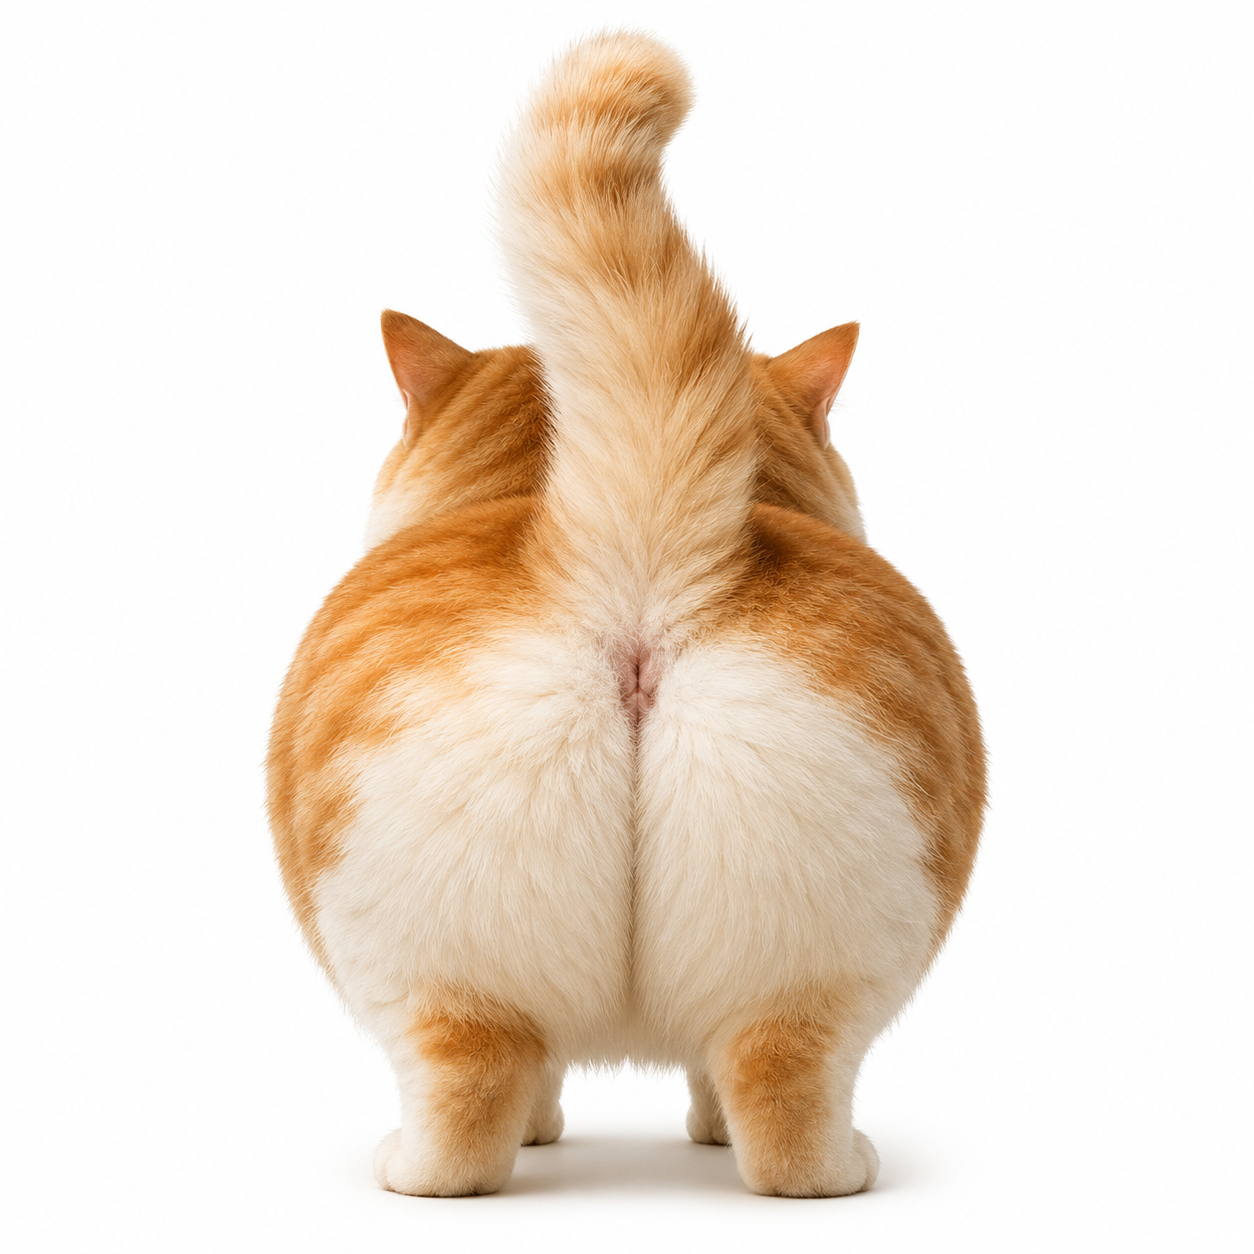
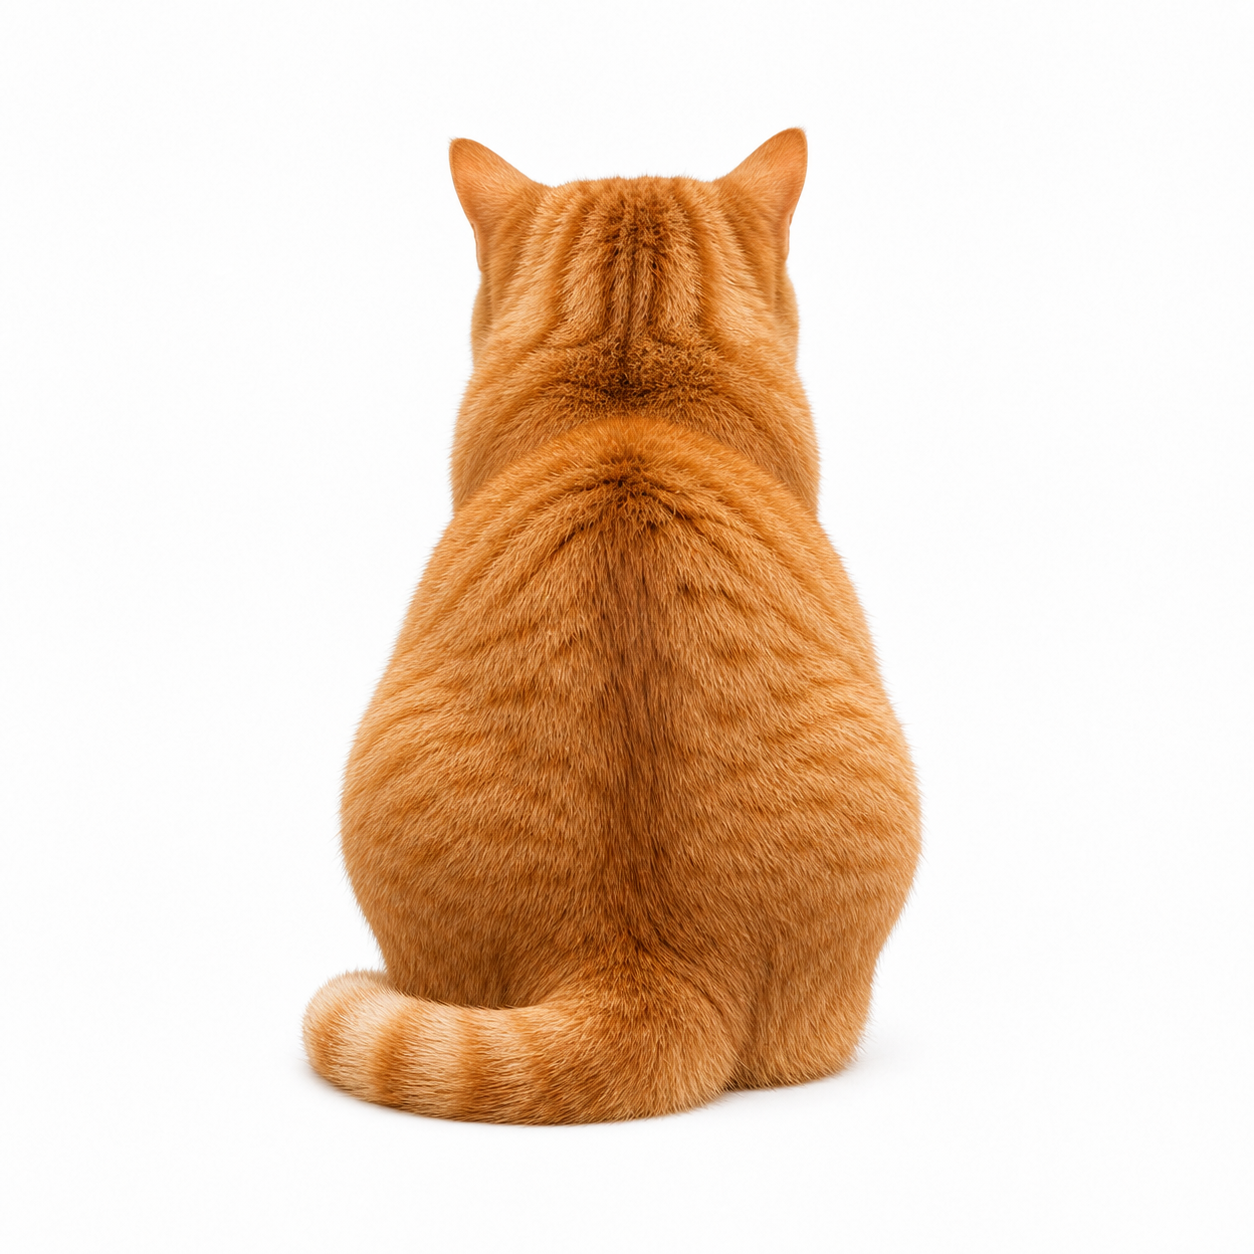
Add rounder animal set

diff --git a/site/app.js b/site/app.js
@@ -21,18 +21,15 @@ const animals = [
     image: "/assets/animals/corgi/base.png",
     alt: "Corgi from behind",
     hitZones: [
-      { x: 0.4, y: 0.62, rx: 0.145, ry: 0.13 },
-      { x: 0.6, y: 0.62, rx: 0.145, ry: 0.13 },
+      { x: 0.4, y: 0.62, rx: 0.16, ry: 0.15 },
+      { x: 0.6, y: 0.62, rx: 0.16, ry: 0.15 },
     ],
   },
   {
     id: "cat",
     image: "/assets/animals/cat/base.png",
     alt: "Cat from behind",
-    hitZones: [
-      { x: 0.39, y: 0.63, rx: 0.15, ry: 0.13 },
-      { x: 0.61, y: 0.63, rx: 0.15, ry: 0.13 },
-    ],
+    hitZones: [{ x: 0.5, y: 0.66, rx: 0.24, ry: 0.2 }],
   },
   {
     id: "rabbit",
@@ -84,6 +81,72 @@ const animals = [
     hitZones: [
       { x: 0.41, y: 0.6, rx: 0.105, ry: 0.115 },
       { x: 0.59, y: 0.6, rx: 0.105, ry: 0.115 },
+    ],
+  },
+  {
+    id: "red-panda",
+    image: "/assets/animals/red-panda/base.png",
+    alt: "Red panda from behind",
+    hitZones: [{ x: 0.5, y: 0.55, rx: 0.26, ry: 0.2 }],
+  },
+  {
+    id: "alpaca",
+    image: "/assets/animals/alpaca/base.png",
+    alt: "Alpaca from behind",
+    hitZones: [
+      { x: 0.42, y: 0.62, rx: 0.14, ry: 0.16 },
+      { x: 0.58, y: 0.62, rx: 0.14, ry: 0.16 },
+    ],
+  },
+  {
+    id: "koala",
+    image: "/assets/animals/koala/base.png",
+    alt: "Koala from behind",
+    hitZones: [{ x: 0.5, y: 0.68, rx: 0.25, ry: 0.18 }],
+  },
+  {
+    id: "wombat",
+    image: "/assets/animals/wombat/base.png",
+    alt: "Wombat from behind",
+    hitZones: [{ x: 0.5, y: 0.64, rx: 0.29, ry: 0.2 }],
+  },
+  {
+    id: "meerkat",
+    image: "/assets/animals/meerkat/base.png",
+    alt: "Meerkat from behind",
+    hitZones: [{ x: 0.5, y: 0.66, rx: 0.12, ry: 0.13 }],
+  },
+  {
+    id: "raccoon",
+    image: "/assets/animals/raccoon/base.png",
+    alt: "Raccoon from behind",
+    hitZones: [{ x: 0.5, y: 0.6, rx: 0.24, ry: 0.19 }],
+  },
+  {
+    id: "skunk",
+    image: "/assets/animals/skunk/base.png",
+    alt: "Skunk from behind",
+    hitZones: [
+      { x: 0.42, y: 0.68, rx: 0.13, ry: 0.14 },
+      { x: 0.58, y: 0.68, rx: 0.13, ry: 0.14 },
+    ],
+  },
+  {
+    id: "gorilla",
+    image: "/assets/animals/gorilla/base.png",
+    alt: "Gorilla from behind",
+    hitZones: [
+      { x: 0.42, y: 0.69, rx: 0.18, ry: 0.17 },
+      { x: 0.58, y: 0.69, rx: 0.18, ry: 0.17 },
+    ],
+  },
+  {
+    id: "hippo-calf",
+    image: "/assets/animals/hippo-calf/base.png",
+    alt: "Baby hippo from behind",
+    hitZones: [
+      { x: 0.42, y: 0.62, rx: 0.17, ry: 0.17 },
+      { x: 0.58, y: 0.62, rx: 0.17, ry: 0.17 },
     ],
   },
 ];